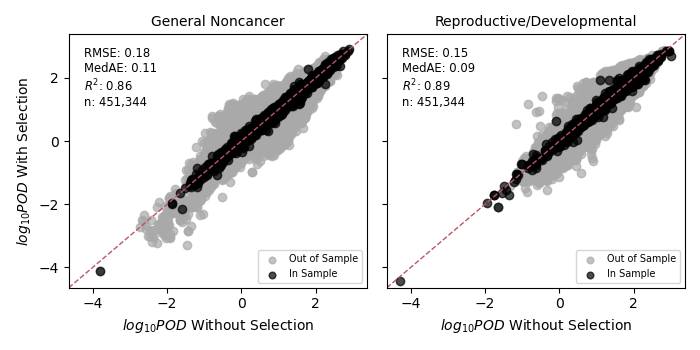
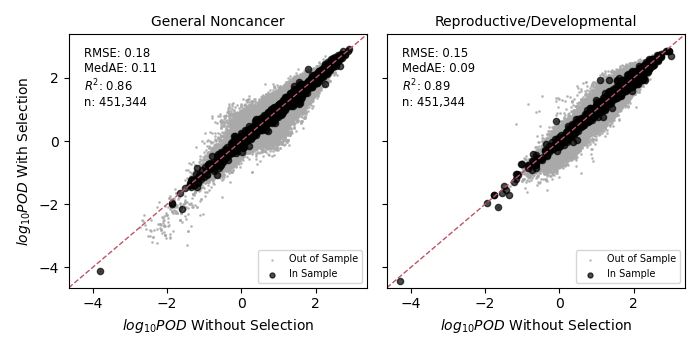
Use different marker sizes in scatterplots

diff --git a/plot.py b/plot.py
@@ -126,6 +126,10 @@ def pairwise_scatters_and_kde_subplots(
         False : plot_settings.color_for_sample_type['out'], 
         True : plot_settings.color_for_sample_type['in']
     }
+    marker_size_for_category = {
+        False : plot_settings.marker_size_for_sample_type['out'],
+        True : plot_settings.marker_size_for_sample_type['in']
+    }
 
     X = pd.read_csv(features_file, index_col=0)
     X = X[features_subset]
@@ -154,6 +158,7 @@ def pairwise_scatters_and_kde_subplots(
         X, 
         categories, 
         color_for_category, 
+        marker_size_for_category,
         figsize=figsize,
         limits_for_feature=limits_for_feature
         )
@@ -183,6 +188,7 @@ def plot_pairwise_scatters_and_kde(
         X, 
         categories, 
         color_for_category, 
+        marker_size_for_category,
         figsize=None,
         limits_for_feature=None
         ):
@@ -223,6 +229,7 @@ def plot_pairwise_scatters_and_kde(
                     feature_col, 
                     feature_row, 
                     color_for_category,
+                    marker_size_for_category,
                     limits_for_feature
                     )
             else:
@@ -281,6 +288,7 @@ def plot_scatter(
         feature_x, 
         feature_y, 
         color_for_category,
+        marker_size_for_category,
         limits_for_feature
         ):
     '''
@@ -307,6 +315,7 @@ def plot_scatter(
             subset[feature_x], 
             subset[feature_y], 
             c=color_for_category[cat], 
+            s=marker_size_for_category[cat],
             label=cat
             )
     ax.set_xlim(limits_for_feature[feature_x])  # Set consistent x limits
@@ -863,6 +872,8 @@ def out_of_sample_prediction_scatterplots(
             function_for_metric, 
             plot_settings.label_for_metric,
             highlight_indices=labeled_samples,
+            main_size=plot_settings.marker_size_for_sample_type['out'],
+            highlight_size=plot_settings.marker_size_for_sample_type['in'],
             main_label=plot_settings.label_for_sample_type['out'],
             highlight_label=plot_settings.label_for_sample_type['in'],
             color=plot_settings.color_for_sample_type['out'], 
@@ -1361,6 +1372,8 @@ def generate_scatterplot(
         with_sample_size=True,
         color='black', 
         alpha=0.7,
+        highlight_size=None,
+        main_size=None,
         highlight_color='#004488',  # blue
         highlight_indices=None, 
         main_label='Main',
@@ -1411,6 +1424,7 @@ def generate_scatterplot(
             y_true_rest, 
             y_pred_rest, 
             alpha=alpha, 
+            s=main_size,
             color=color,
             label=main_label
             )
@@ -1418,6 +1432,7 @@ def generate_scatterplot(
             y_true_highlight, 
             y_pred_highlight, 
             alpha=alpha, 
+            s=highlight_size,
             color=highlight_color,
             label=highlight_label,
             )
